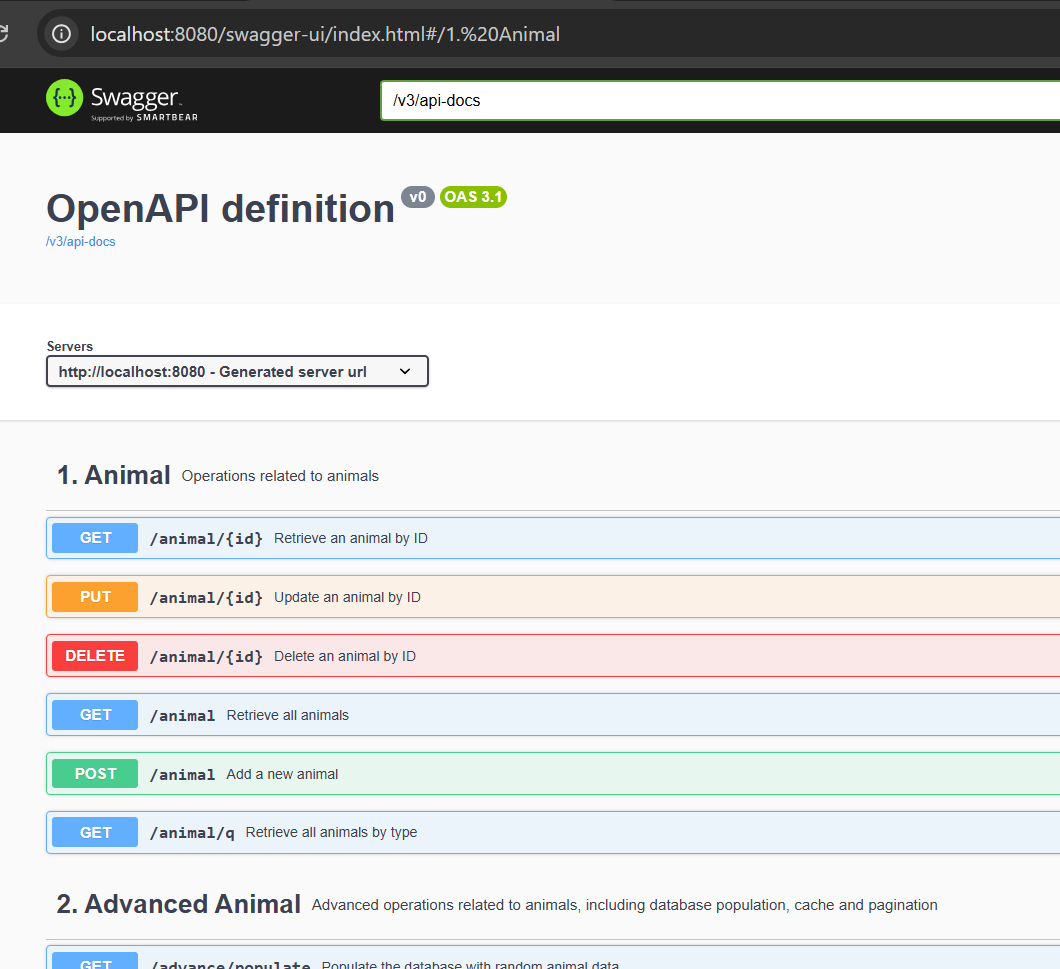
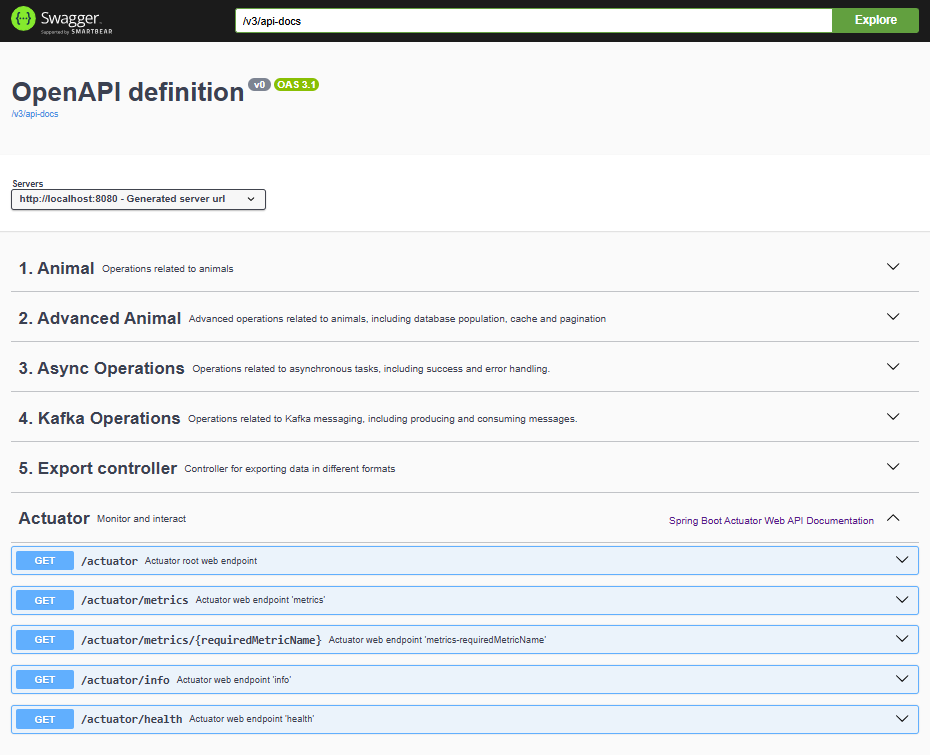
feature: export controller created to generate csv and pdf files

Changed region(s): [[0.0, 0.3351, 1.0, 1.0], [0.0, 0.0, 1.0, 0.1523], [0.0, 0.1828, 0.4989, 0.2742]]

diff --git a/src/main/java/com/ambrosiaandrade/pets/service/ExportService.java b/src/main/java/com/ambrosiaandrade/pets/service/ExportService.java
@@ -1,0 +1,123 @@
+package com.ambrosiaandrade.pets.service;
+
+import com.ambrosiaandrade.pets.exceptions.BaseException;
+import com.ambrosiaandrade.pets.interfaces.IAnimalMapper;
+import com.ambrosiaandrade.pets.models.Animal;
+import com.ambrosiaandrade.pets.repositories.AnimalRepository;
+import com.lowagie.text.Chunk;
+import com.lowagie.text.Document;
+import com.lowagie.text.Paragraph;
+import com.lowagie.text.pdf.PdfPTable;
+import com.lowagie.text.pdf.PdfTable;
+import com.lowagie.text.pdf.PdfWriter;
+import com.opencsv.CSVWriter;
+import lombok.extern.slf4j.Slf4j;
+import org.springframework.dao.DataAccessException;
+import org.springframework.stereotype.Service;
+
+import java.io.ByteArrayOutputStream;
+import java.io.IOException;
+import java.io.StringWriter;
+import java.nio.charset.StandardCharsets;
+import java.util.List;
+
+@Slf4j
+@Service
+public class ExportService {
+
+    private final AnimalRepository repository;
+    private final IAnimalMapper mapper;
+
+    public ExportService(AnimalRepository repository, IAnimalMapper mapper) {
+        this.repository = repository;
+        this.mapper = mapper;
+    }
+
+    public byte[] getCsv() {
+        var list = fetchAnimals();
+
+        StringWriter stringWriter = new StringWriter();
+        CSVWriter csvWriter = new CSVWriter(stringWriter);
+
+        String[] header = {"name", "age", "age_in_human_years", "birthday", "type", "diet", "gender"};
+        csvWriter.writeNext(header);
+
+        for (Animal animal : list) {
+            String[] line = {
+                    animal.getName(),
+                    String.valueOf(animal.getAge()),
+                    String.valueOf(animal.getAgeInHumanYears()),
+                    String.valueOf(animal.getBirthday()),
+                    animal.getType().name(),
+                    animal.getDiet().name(),
+                    animal.getGender().name()
+            };
+            csvWriter.writeNext(line);
+        }
+
+        try {
+            csvWriter.close();
+        } catch (IOException e) {
+            throw new RuntimeException("Erro ao gerar CSV", e);
+        }
+
+        return stringWriter.toString().getBytes(StandardCharsets.UTF_8);
+    }
+
+    public byte[] getPdf() {
+        var list = fetchAnimals();
+
+        try (ByteArrayOutputStream baos = new ByteArrayOutputStream()) {
+            Document doc = new Document();
+            PdfWriter.getInstance(doc, baos);
+            doc.open();
+
+            doc.add(new Paragraph("Animals report"));
+            doc.add(Chunk.NEWLINE);
+
+            PdfPTable table = new PdfPTable(7);
+            table.setWidthPercentage(100);
+
+            table.addCell("name");
+            table.addCell("age");
+            table.addCell("age_in_human_years");
+            table.addCell("birthday");
+            table.addCell("type");
+            table.addCell("diet");
+            table.addCell("gender");
+
+            for (Animal animal : list) {
+                table.addCell(animal.getName());
+                table.addCell(String.valueOf(animal.getAge()));
+                table.addCell(String.valueOf(animal.getAgeInHumanYears()));
+                table.addCell(String.valueOf(animal.getBirthday()));
+                table.addCell(animal.getType().name());
+                table.addCell(animal.getDiet().name());
+                table.addCell(animal.getGender().name());
+            }
+
+            doc.add(table);
+            doc.close();
+
+            return baos.toByteArray();
+        } catch (Exception e) {
+            throw new RuntimeException("Erro ao gerar PDF", e);
+        }
+    }
+
+    private List<Animal> fetchAnimals() {
+        try {
+            var entities = repository.findAll();
+            return entities.stream()
+                    .map(mapper::toModel)
+                    .toList();
+        } catch (DataAccessException e) {
+            StackTraceElement stackTraceElement = e.getStackTrace()[0];
+            log.error(stackTraceElement.toString());
+            throw new BaseException(e.getMessage(), 500);
+        }
+    }
+
+
+
+}

diff --git a/src/main/java/com/ambrosiaandrade/pets/controller/ExportController.java b/src/main/java/com/ambrosiaandrade/pets/controller/ExportController.java
@@ -1,0 +1,70 @@
+package com.ambrosiaandrade.pets.controller;
+
+import com.ambrosiaandrade.pets.service.ExportService;
+import io.swagger.v3.oas.annotations.Operation;
+import io.swagger.v3.oas.annotations.media.Content;
+import io.swagger.v3.oas.annotations.media.Schema;
+import io.swagger.v3.oas.annotations.responses.ApiResponse;
+import io.swagger.v3.oas.annotations.responses.ApiResponses;
+import io.swagger.v3.oas.annotations.tags.Tag;
+import org.springframework.http.HttpHeaders;
+import org.springframework.http.HttpStatus;
+import org.springframework.http.ResponseEntity;
+import org.springframework.web.bind.annotation.GetMapping;
+import org.springframework.web.bind.annotation.RequestMapping;
+import org.springframework.web.bind.annotation.RestController;
+
+@Tag(name = "5. Export controller", description = "Controller for exporting data in different formats")
+@RestController
+@RequestMapping("/export")
+public class ExportController {
+
+    private final ExportService service;
+
+    public ExportController(ExportService service) {
+        this.service = service;
+    }
+
+    @Operation(summary = "Export data in CSV format",
+            description = "Exports the data in CSV format. The response is a CSV file containing the exported data.")
+    @ApiResponses(value = {
+            @ApiResponse(responseCode = "200",
+                    description = "CSV file exported successfully",
+                    content = {@Content(mediaType = "text/csv", schema = @Schema(type = "string"))}),
+            @ApiResponse(responseCode = "500",
+                    description = "Internal server error while exporting CSV",
+                    content = {@Content(mediaType = "text/csv")})
+    })
+    @GetMapping("/csv")
+    public ResponseEntity<byte[]> getCsv() {
+        var bytes = service.getCsv();
+
+        HttpHeaders headers = new HttpHeaders();
+        headers.set(HttpHeaders.CONTENT_DISPOSITION, "attachment; filename=pets.csv");
+        headers.set(HttpHeaders.CONTENT_TYPE, "text/csv; charset=UTF-8");
+
+        return new ResponseEntity<>(bytes, headers, HttpStatus.OK);
+    }
+
+    @Operation(summary = "Export data in PDF format",
+            description = "Exports the data in PDF format. The response is a PDF file containing the exported data.")
+    @ApiResponses(value = {
+            @ApiResponse(responseCode = "200",
+                    description = "PDF file exported successfully",
+                    content = {@Content(mediaType = "application/pdf", schema = @Schema(type = "string"))}),
+            @ApiResponse(responseCode = "500",
+                    description = "Internal server error while exporting PDF",
+                    content = {@Content(mediaType = "application/pdf")})
+    })
+    @GetMapping("/pdf")
+    public ResponseEntity<byte[]> getPdf() {
+        var bytes = service.getPdf();
+
+        HttpHeaders headers = new HttpHeaders();
+        headers.set(HttpHeaders.CONTENT_DISPOSITION, "attachment; filename=pets.pdf");
+        headers.set(HttpHeaders.CONTENT_TYPE, "application/pdf");
+
+        return new ResponseEntity<>(bytes, headers, HttpStatus.OK);
+    }
+
+}

diff --git a/README.md b/README.md
@@ -38,6 +38,7 @@ This project is a comprehensive toolbox application featuring robust CRUD operat
 * **📄 Pagination Support** – Efficiently handle large datasets with pageable endpoints.
 * **⚙ Asynchronous Endpoints** – Demonstrates how to run non-blocking operations using `CompletableFuture`.
 * **📨 Kafka Integration** – Includes Kafka producers and consumers with example topics and message flow.
+* **📤 Export Controller** – Provides endpoints to export data in various formats (e.g., CSV, PDF), enabling easy data extraction and integration with external systems.
 * **📊 Sequence Diagrams** – Visual documentation of key controller interactions using PlantUML.
 * **🧪 Test Coverage with JaCoCo** – Enforces 80% code coverage and generates readable HTML reports.
 * **🧰 Swagger Integration** – Auto-generated API documentation using SpringDoc OpenAPI.
@@ -54,7 +55,7 @@ This project is a comprehensive toolbox application featuring robust CRUD operat
 
 [![Spring Boot][springboot-shield]][springboot-url] [![Spring Data JPA][jpa-shield]][jpa-url] [![Spring Web][web-shield]][web-url] [![Spring Boot Test][test-shield]][test-url] [![Springdoc OpenAPI][springdoc-shield]][springdoc-url] [![Spring Actuator][actuator-shield]][actuator-url] [![Spring Cache][cache-shield]][cache-url] [![DevTools][devtools-shield]][devtools-url]
 
-[![Java][java-shield]][java-url] [![Maven][maven-shield]][maven-url] [![Kafka][kafka-shield]][kafka-url] [![Kafka UI][kafbat-shield]][kafbat-url] [![Docker][docker-shield]][docker-url] [![JUnit 5][junit5-shield]][junit5-url] [![Mockito][mockito-shield]][mockito-url] [![Swagger UI][swagger-shield]][swagger-url] [![H2 Database][h2-shield]][h2-url] [![Lombok][lombok-shield]][lombok-url] [![MapStruct][mapstruct-shield]][mapstruct-url]
+[![Java][java-shield]][java-url] [![Maven][maven-shield]][maven-url] [![Kafka][kafka-shield]][kafka-url] [![Kafka UI][kafbat-shield]][kafbat-url] [![Docker][docker-shield]][docker-url] [![JUnit 5][junit5-shield]][junit5-url] [![Mockito][mockito-shield]][mockito-url] [![Swagger UI][swagger-shield]][swagger-url] [![H2 Database][h2-shield]][h2-url] [![Lombok][lombok-shield]][lombok-url] [![MapStruct][mapstruct-shield]][mapstruct-url] [![OpenCSV][opencsv-shield]][opencsv-url] [![OpenPDF][openpdf-shield]][openpdf-url] ![Coverage](https://img.shields.io/badge/Coverage-80%25-brightgreen?style=for-the-badge&logo=jacoco)
 
 ##### Maven
 
@@ -363,8 +364,19 @@ src/
 - [Swagger UI](http://localhost:8080/swagger-ui/index.html)
     ![swagger-ui](./images/swagger-ui.png) 
 
+    <details>
+
+    ![1-controller](./images/1-controller.png)
+    ![2-controller](./images/2-controller.png)
+    ![3-controller](./images/3-controller.png)
+    ![4-controller](./images/4-controller.png)
+    ![5-controller](./images/5-controller.png)
+
+    </details>
+
 - [H2 Console](http://localhost:8080/h2-console/)
-    ![h2-console](./images/h2-console.png) 
+  - Password: sa
+  ![h2-console](./images/h2-console.png) 
 
 - [Kafka UI](http://localhost:8081)
     ![kafbat-ui](./images/kafbat-ui.png)  
@@ -377,7 +389,6 @@ Editable .puml files can be found at `./docs` folder.
 <summary><b>Animal Controller</b></summary>
 
   ![sequence-diagram-animal-controller](./docs/sequence-diagram-animal-controller.png)
-
 </details>
 
 <details>
@@ -400,6 +411,13 @@ This controller serves as a demonstration of asynchronous processing in Java. It
 <summary><b>Kafka Controller</b></summary>
 
   ![sequence-diagram-kafka-controller](./docs/sequence-diagram-kafka-controller.png)
+
+</details>
+
+<details>
+<summary><b>Export Controller</b></summary>
+
+  ![sequence-diagram-export-controller](./docs/sequence-diagram-export-controller.png)
 
 </details>
 
@@ -500,6 +518,12 @@ This project is licensed under the **[MIT License](LICENSE)** — see the file f
 
 [devtools-shield]: https://img.shields.io/badge/DevTools-6DB33F?style=for-the-badge&logo=spring&logoColor=white
 [devtools-url]: https://docs.spring.io/spring-boot/docs/current/reference/html/using.html#using.devtools
+
+[opencsv-shield]: https://img.shields.io/badge/OpenCSV-4E97A3?style=for-the-badge&logo=csv&logoColor=white
+[opencsv-url]: http://opencsv.sourceforge.net/
+
+[openpdf-shield]: https://img.shields.io/badge/OpenPDF-3776AB?style=for-the-badge&logo=adobeacrobatreader&logoColor=white
+[openpdf-url]: https://github.com/LibrePDF/OpenPDF
 
 <!-- Social media -->
 
